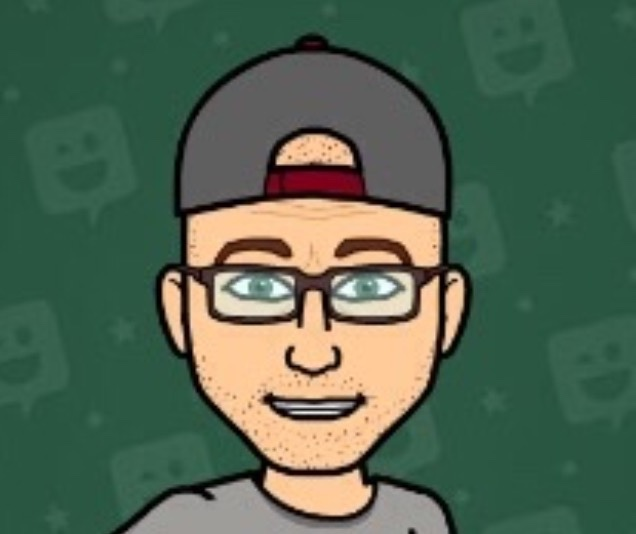
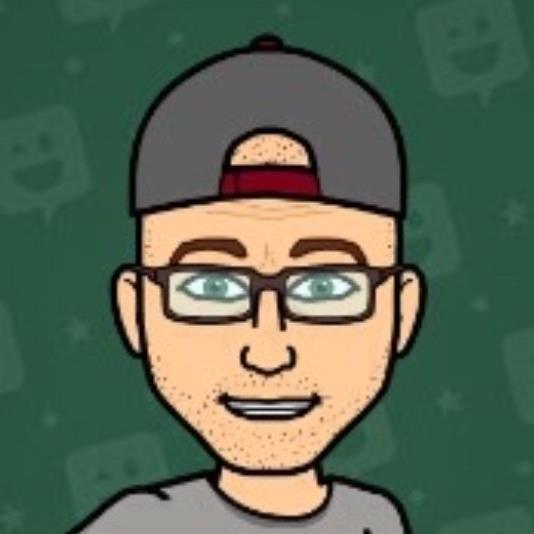
tweeks

Changed region(s): [[0.1199, 0.0899, 0.809, 1.0], [0.4494, 0.0599, 0.5393, 0.0899], [0.4494, 0.9288, 0.4794, 0.9588]]

diff --git a/css/about.css b/css/about.css
@@ -14,6 +14,10 @@ h1 {
   margin: 1.5em 0 0.3em;
 }
 
+nav{
+  margin-top: -15px;
+}
+
 h2 {
   text-align:left;
   font: 400 0.75em/1 'Roboto', sans-serif;
@@ -228,18 +232,16 @@ nav ul li:hover > ul {
 	}
 
 nav ul {
-	background: #FFF;
-	background: linear-gradient(top, #FFF 0%, #bbbbbb 100%);
-	background: -moz-linear-gradient(top, #FFF 0%, #bbbbbb 100%);
-	background: -webkit-linear-gradient(top, #FFF 0%,#bbbbbb 100%);
+  color: inherit;
+	background-color: #FFF;
+	background: linear-gradient(#FFF 0%, #bbbbbb 100%);
 	box-shadow: 0px 0px 9px rgba(0,0,0,0.15);
 	padding: 0px;
 	list-style: none;
 	position: relative;
 	display: inline-table;
-  position: relative;
-  margin-left: 10px;
   border-radius: 30pt;
+  border: 1px solid black;
 }
 
 nav ul:after {
@@ -251,10 +253,9 @@ nav ul li {
 }
 
 nav ul li:hover {
+  color:inherit;
 	background: #8EA9B9;
-	background: linear-gradient(top, #8EA9B9 0%, #5f6975 40%);
-	background: -moz-linear-gradient(top, #8EA9B9 0%, #5f6975 40%);
-	background: -webkit-linear-gradient(top, #8EA9B9 0%,#5f6975 40%);
+	background: linear-gradient(#8EA9B9 0%, #5f6975 40%);
   border-top-left-radius:30px;
   border-bottom-left-radius:30px;
   border-top-right-radius:30px;
@@ -262,17 +263,19 @@ nav ul li:hover {
 }
 
 nav ul li:hover a {
-	color: #8EA9B9;
+  background-color: inherit;
   color: #FFF;
 }
 
 nav ul li a {
+  background-color: inherit;
 	display: block; padding: 25px 40px;
 	color: #757575; text-decoration: none;
 
 }
 
 nav ul ul {
+  color: inherit;
   background: #5f6975; border-radius: 0px; padding: 0;
 	position: absolute; top: 100%;
   margin-left: 30px;
@@ -288,14 +291,118 @@ nav ul ul li {
 nav ul ul li a {
 	padding: 15px 40px;
 	color: #fff;
+  background-color: inherit;
 }
 
 nav ul ul li a:hover {
 	background: #8EA9B9;
+  color: inherit;
 }
 
 nav ul ul ul {
   position: absolute; left: 100%; top:0;
+}
+
+.petSearch {
+    max-width: 500px;
+    color: inherit;
+    background: #FFF;
+    background: linear-gradient(#FFF 0%, #bbbbbb 100%);
+    padding: 20px;
+    border-radius: 8px;
+    font-family: Georgia, "Times New Roman", Times, serif;
+    margin-left: 15px;
+    width: 125px;
+    height: 330px;
+    position:absolute;
+    margin-top: 18.5pt;
+    border: 1px solid black;
+}
+
+.petSearch
+ fieldset {
+    border: 1px solid;
+}
+.petSearch
+ legend {
+    font-size: 1.2em;
+    margin-bottom: 20px;
+}
+.petSearch
+ label {
+    display: block;
+    margin-bottom: 8px;
+}
+
+.petSearch
+ select {
+    font-family: Georgia, "Times New Roman", Times, serif;
+    border: solid;
+    border-radius: 4px;
+    font-size: 16px;
+    outline: 0;
+    padding: 5px;
+    width: 100%;
+    box-sizing: border-box;
+    background-color: #e8eeef;
+    color:#8a97a0;
+    box-shadow: 0 1px 0 rgba(0,0,0,0.05) inset;
+    margin-bottom: 17px;
+
+}
+
+.petSearch
+ textarea:focus,
+.petSearch
+ select:focus{
+    background: #FFF;
+    color: inherit;
+}
+.petSearch
+ select{
+    height:40px;
+}
+.petSearch
+ .number {
+    background: #1abc9c;
+    color: #fff;
+    height: 30px;
+    width: 30px;
+    display: inline-block;
+    font-size: 0.9em;
+    margin-right: 4px;
+    line-height: 30px;
+    text-align: center;
+    text-shadow: 0 1px 0 rgba(255,255,255,0.2);
+    border-radius: 15px 15px 15px 0px;
+}
+
+.petSearch
+ input[type="submit"],
+.petSearch
+ input[type="button"]
+{
+    position: relative;
+    display: block;
+    padding: 19px 39px 18px 39px;
+    color: #FFF;
+    background: #1abc9c;
+    font-size: 16px;
+    text-align: center;
+    font-style: normal;
+    width: 100%;
+    border: 3px solid #16a085;
+    border-width: 1px 1px 3px;
+    margin-bottom: 12px;
+}
+
+.petSearch
+ input[type="submit"]:hover,
+.petSearch
+ input[type="button"]:hover
+{
+    background: #109177;
+    color: inherit;
 }
 
 .title {
@@ -321,20 +428,20 @@ nav ul ul ul {
 .seanpic {
   position: absolute;
   margin-top: -153pt;
-  margin-left: -75pt;
+  margin-left: -76pt;
   width: 151pt;
 }
 
 .chrispic {
   position: absolute;
   margin-top: -153pt;
-  margin-left: -75pt;
+  margin-left: -76pt;
   width: 151pt;
 }
 
 .fortpic {
-  position:absolute;
-  margin-top: -130pt;
-  margin-left: -75pt;
+  position: absolute;
+  margin-top: -153pt;
+  margin-left: -76pt;
   width: 151pt;
 }
